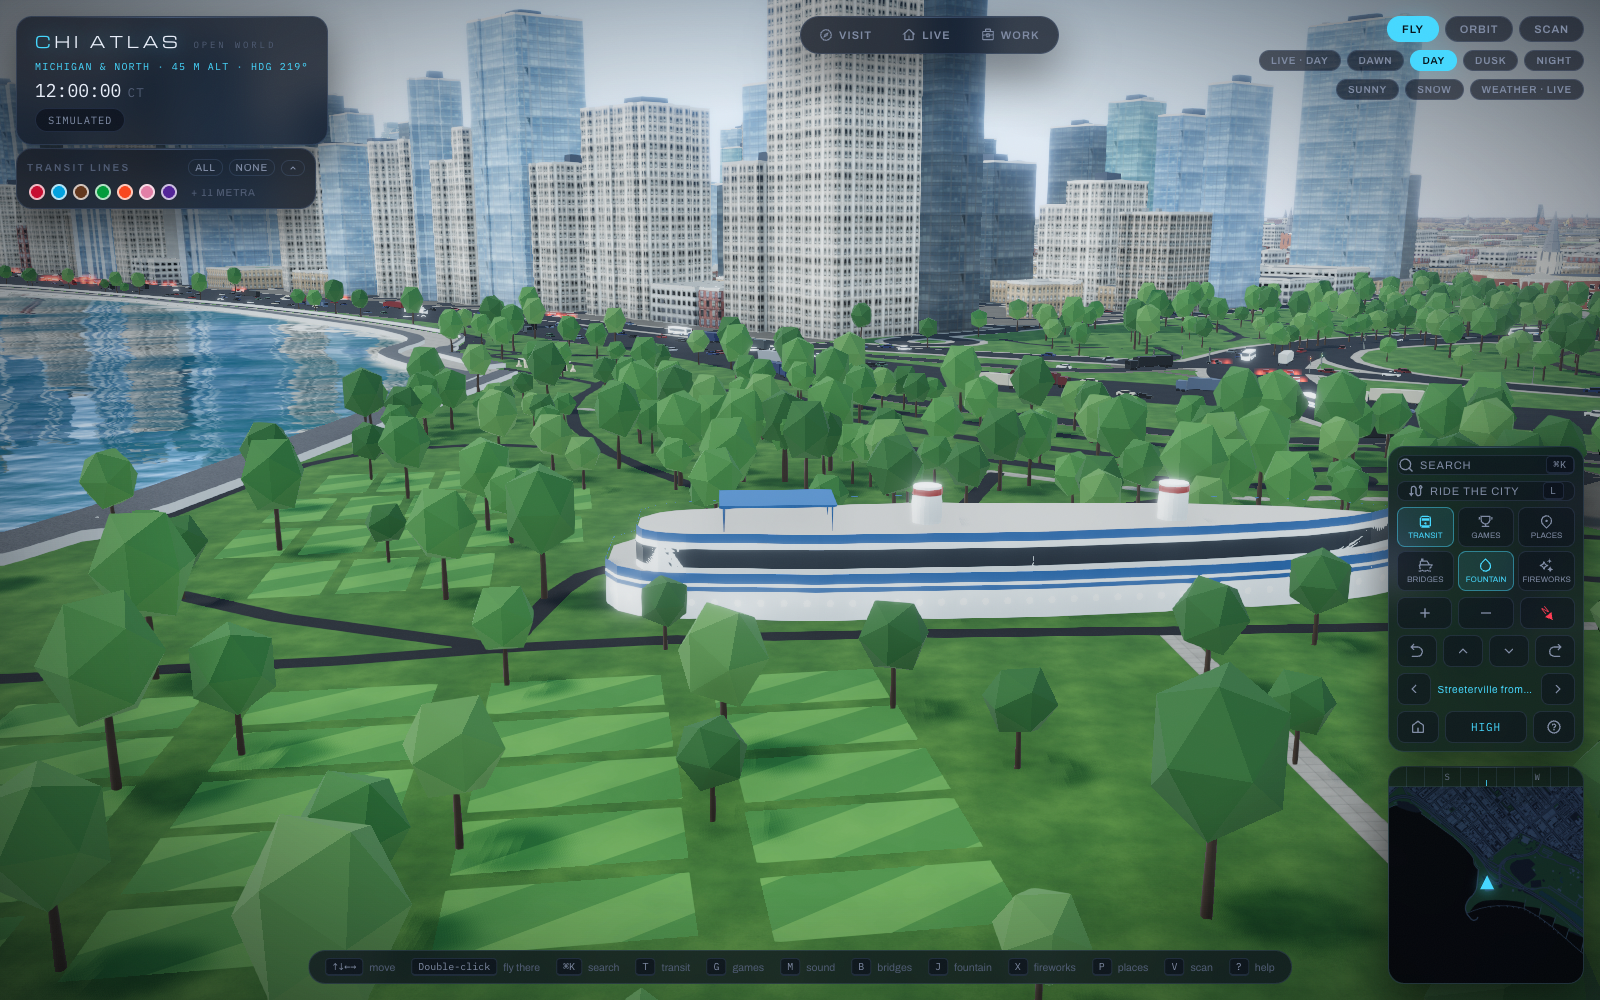
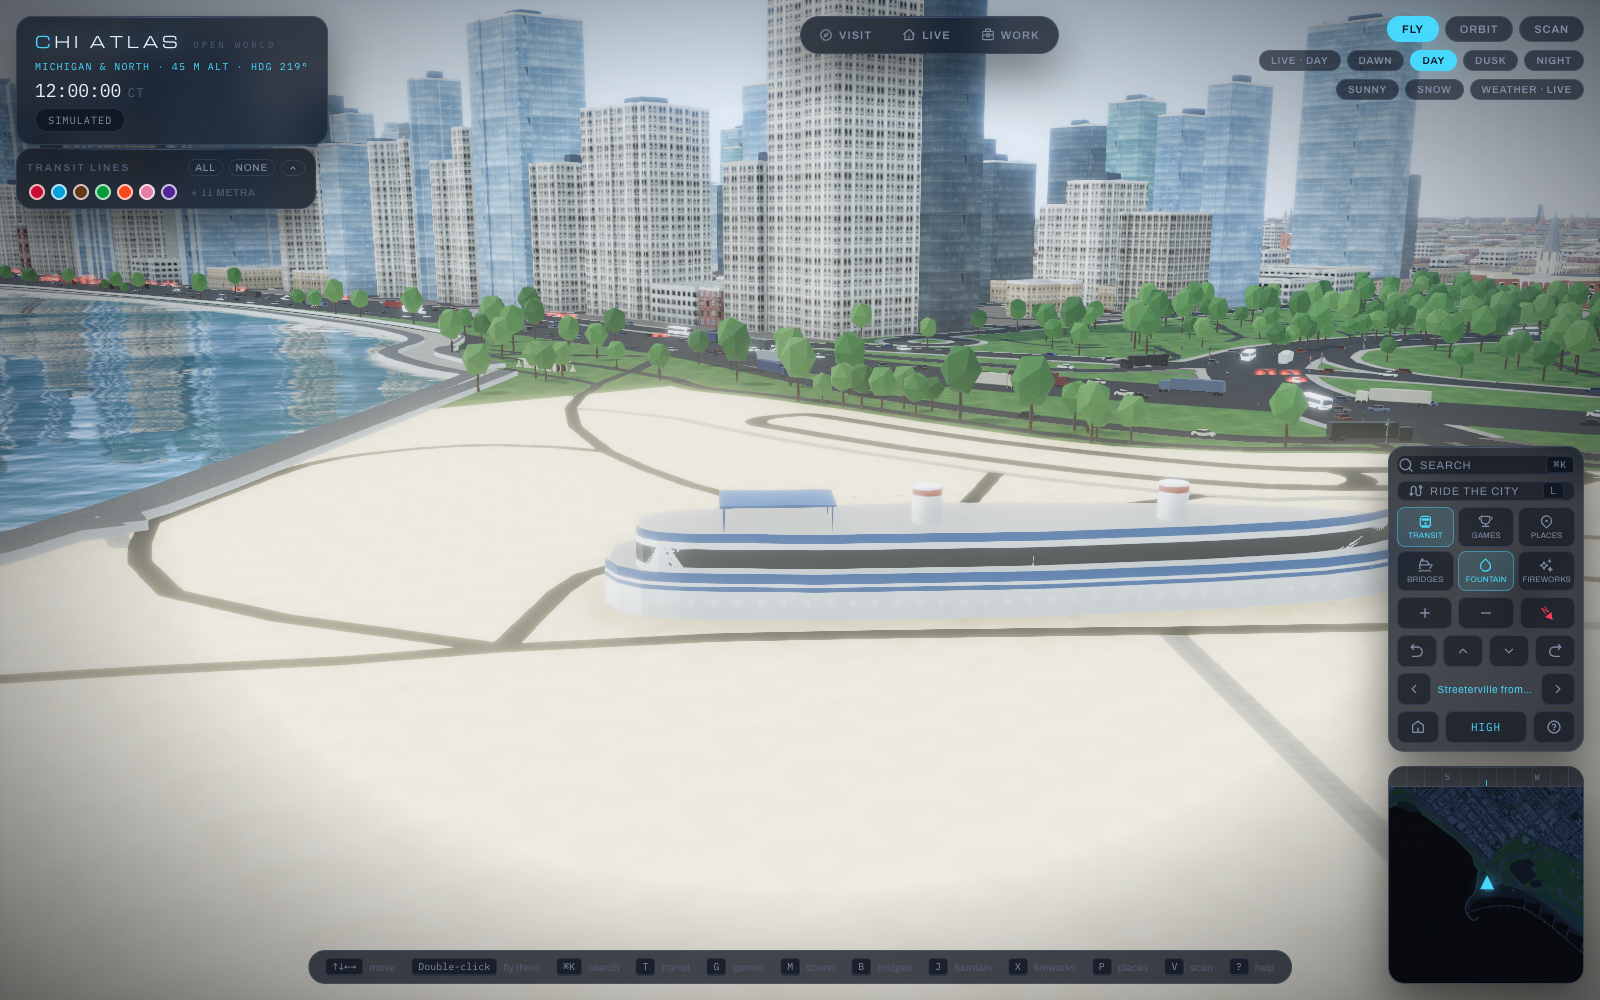
fix(lincoln park): North Avenue Beach is sand — the beach house no longer stands on lawn among trees
OSM leaves North Avenue Beach and the sand north of it unmapped, and its 108
beach-volleyball courts drew as striped turf. Now:
- data/beaches.json + lib/beaches.js: each Lincoln Park beach is sand from the
  Lakefront Trail (the cycleway, where the grass and trees begin) to the shore
  between two latitudes — North Avenue Beach from North Ave to Fullerton,
  Fullerton Beach north of Theater on the Lake (Park District sources, extents
  approximate); clipped to the lake side of the shore
- volleyball courts on sand join the beach layer instead of the turf pitches
- the park grass is cut around the sand and no tree stands on it (444 more
  removed); Oak Street Beach (OSM-mapped) checked the same way
The B-0 North Avenue Beach frames re-taken (day and night). World 176.58 →
176.56 MB (−0.01). Pipeline 734/734, app 852/852; e2e 45/46 with the Riverwalk
walk fps flake (53.8, 55.5 on rerun, downtown, untouched).

diff --git a/pipeline/build/build-world.js b/pipeline/build/build-world.js
@@ -40,6 +40,7 @@ import { createStyleRegistry, assignHeroStyles, meshStyle, writeStylePalettePng,
 import { applyOsmLooks, applyTagOverrides } from '../lib/osmLook.js'
 import { applyRooftops, rooftopLots } from '../lib/rooftops.js'
 import { lakePolygons, landMinusWater, joinLines, lakeSide } from '../lib/lake.js'
+import { lakefrontBeaches, isSandPitch } from '../lib/beaches.js'
 import { bakeShore, SHORE } from '../lib/shore.js'
 import { bakeHeightfield, meshPoints, boundsUnion, HEIGHTFIELD } from '../lib/heightfield.js'
 import { encodeHeights } from '../lib/raster.js'
@@ -227,8 +228,19 @@ async function main() {
   assertSkyline(sky)
 
   // ── Ground sources ─────────────────────────────────────────────────────────
-  const parks = greens.filter((p) => p.tags.natural !== 'beach' && p.tags.leisure !== 'pitch'), beaches = greens.filter((p) => p.tags.natural === 'beach')
-  const pitches = greens.filter((p) => p.tags.leisure === 'pitch')
+  const parks = greens.filter((p) => p.tags.natural !== 'beach' && p.tags.leisure !== 'pitch'), beaches = greens.filter((p) => p.tags.natural === 'beach' || (p.tags.leisure === 'pitch' && isSandPitch(p.tags)))
+  const pitches = greens.filter((p) => p.tags.leisure === 'pitch' && !isSandPitch(p.tags))
+  // the lake side of the shore (also cuts the land below), and Lincoln Park's unmapped beaches: sand from the
+  // Lakefront Trail to the water (data/beaches.json)
+  const coastEls = uniq(chunks('coast'))
+  const lakeRel = coastEls.find((e) => e.type === 'relation')
+  const outerIds = new Set((lakeRel?.members || []).filter((m) => m.role === 'outer').map((m) => m.ref))
+  const shoreLines = coastEls.filter((e) => e.type === 'way' && e.geometry && (!lakeRel || outerIds.has(e.id))).map((e) => e.geometry.map((p) => project(p.lon, p.lat)))
+  const lakeSideP = lakeSide(joinLines(shoreLines, 5), 60000)
+  const trailLines = uniq(chunks('trails')).filter((e) => e.geometry && e.tags?.name === 'Lakefront Trail').map((e) => e.geometry.map((p) => project(p.lon, p.lat)))
+  const sand = lakefrontBeaches(loadJson(join(ROOT, 'data', 'beaches.json')).beaches, { trail: trailLines, lake: lakeSideP })
+  for (const b of sand) beaches.push(b)
+  log(`beaches: ${beaches.length} (${sand.length} lakefront bands from data/beaches.json, ${beaches.filter((b) => b.tags.leisure === 'pitch').length} volleyball courts as sand)`)
   const water = osmPolys(uniq(chunks('water'))).filter((p) => keepWater(p.tags))
   const roads = uniq(chunks('roads')).filter((e) => e.geometry && roadHalfWidth(e.tags || {}))
   const rail = uniq(chunks('rail')).filter((e) => e.geometry)
@@ -587,11 +599,6 @@ async function main() {
   // Land is solid: enclave holes in the city boundary (other municipalities) are still land, never lake.
   const landLimits = [...landPolys, ...region].map((p) => ({ outer: p.outer, holes: [] }))
   // The city limits run out into the lake; the real shore is Lake Michigan's own outline (its outer member ways).
-  const coastEls = uniq(chunks('coast'))
-  const lakeRel = coastEls.find((e) => e.type === 'relation')
-  const outerIds = new Set((lakeRel?.members || []).filter((m) => m.role === 'outer').map((m) => m.ref))
-  const shoreLines = coastEls.filter((e) => e.type === 'way' && e.geometry && (!lakeRel || outerIds.has(e.id))).map((e) => e.geometry.map((p) => project(p.lon, p.lat)))
-  const lakeSideP = lakeSide(joinLines(shoreLines, 5), 60000)
   const landSolid = lakeSideP.length ? landMinusWater({ land: landLimits, water: lakeSideP }) : landLimits
   log(`shoreline: ${shoreLines.length} ways, lake side ${lakeSideP.length ? 'cut' : 'MISSING — using city limits'}`)
   rmSync(join(OUT, 'ground'), { recursive: true, force: true }) // X-0b: drops the unused Phase-2 ground layers (roads, parks, …: 8 MB nothing loads)

diff --git a/pipeline/lib/beaches.js b/pipeline/lib/beaches.js
@@ -1,0 +1,36 @@
+// pipeline/lib/beaches.js — Lincoln Park's lakefront beaches (B, coordinator fix 2026-10-01). OSM maps Oak Street and
+// the South Side beaches as natural=beach but not North Avenue Beach or the sand north of it, so the beach house stood on
+// lawn among trees. Each beach in data/beaches.json is a north–south band of the lakefront: everything between the
+// Lakefront Trail (the landward edge, where the grass and trees begin) and the shore is sand. Beach-volleyball courts
+// (OSM pitches on sand) are sand too, never turf.
+import polygonClipping from 'polygon-clipping'
+import { project } from '../../shared/project.js'
+import { openRing, ringBBox, signedArea } from './geom.js'
+
+const close = (r) => [...r, r[0]]
+export const isSandPitch = (t = {}) => /beach_?volleyball/.test(t.sport ?? '') || t.surface === 'sand'
+
+// trail: polylines (local metres) of the Lakefront Trail; lake: polygons of the lake side of the shore (lakeSide()).
+export function lakefrontBeaches(bands, { trail, lake }) {
+  const out = []
+  for (const b of bands) {
+    const zS = project(0, b.south)[1], zN = project(0, b.north)[1]
+    const pts = trail.flat().filter(([, z]) => z <= zS + 60 && z >= zN - 60).sort((p, q) => p[1] - q[1])
+    if (pts.length < 2) continue
+    // the landward edge: for each 10 m of latitude, the trail's westernmost point there (the cycleway, not the beach walks)
+    const rows = new Map()
+    for (const [x, z] of pts) { const k = Math.round(z / 10); if (!rows.has(k) || x < rows.get(k)[0]) rows.set(k, [x + (b.setbackM ?? 6), z]) }
+    const edge = [...rows.values()].sort((p, q) => p[1] - q[1])
+    const east = Math.max(...edge.map((p) => p[0])) + 1500
+    const band = [...edge, [east, edge.at(-1)[1]], [east, edge[0][1]]]
+    const box = [[-1e6, zN], [1e6, zN], [1e6, zS], [-1e6, zS]]
+    const clipped = polygonClipping.intersection([close(band)], [close(box)])
+    const dry = lake.length ? polygonClipping.difference(clipped, ...lake.map((p) => [close(p.outer), ...(p.holes ?? []).map(close)])) : clipped
+    for (const [outer, ...holes] of dry) {
+      const o = openRing(outer)
+      if (o.length < 3 || Math.abs(signedArea(o)) < 200) continue
+      out.push({ id: `beach-${b.key}`, outer: o, holes: holes.map(openRing), tags: { natural: 'beach', name: b.name, surface: 'sand', source: b.source }, bbox: ringBBox(o) })
+    }
+  }
+  return out
+}

diff --git a/pipeline/tests/beaches.test.js b/pipeline/tests/beaches.test.js
@@ -1,0 +1,33 @@
+// pipeline/tests/beaches.test.js — Lincoln Park's beaches are sand from the Lakefront Trail to the water (coordinator fix:
+// the North Avenue Beach House stood on lawn among trees), and beach-volleyball courts are sand, not turf.
+import { describe, it, expect } from 'vitest'
+import { readFileSync } from 'node:fs'
+import { lakefrontBeaches, isSandPitch } from '../lib/beaches.js'
+import { pointInRing } from '../lib/geom.js'
+import { project } from '../../shared/project.js'
+
+describe('lakefront beaches', () => {
+  // a straight trail at x = 0 and the lake east of x = 100, from z = −4000 to −3000
+  const zS = project(0, 41.9118)[1], zN = project(0, 41.9252)[1]
+  const trail = [Array.from({ length: 200 }, (_, i) => [0, zS + 200 - ((zS - zN + 400) * i) / 199])]
+  const lake = [{ outer: [[100, zS + 500], [5000, zS + 500], [5000, zN - 500], [100, zN - 500]], holes: [] }]
+  const b = lakefrontBeaches([{ key: 'n', name: 'North Avenue Beach', south: 41.9118, north: 41.9252, setbackM: 6, source: 'x' }], { trail, lake })
+  it('is sand between the trail (plus its setback) and the shore, within its latitudes', () => {
+    expect(b).toHaveLength(1)
+    const r = b[0].outer, xs = r.map((p) => p[0]), zs = r.map((p) => p[1])
+    expect(Math.min(...xs)).toBeCloseTo(6, 0); expect(Math.max(...xs)).toBeCloseTo(100, 0)
+    expect(Math.max(...zs)).toBeCloseTo(zS, 0); expect(Math.min(...zs)).toBeCloseTo(zN, 0)
+    expect(pointInRing([50, (zS + zN) / 2], r)).toBe(true); expect(pointInRing([-20, (zS + zN) / 2], r)).toBe(false)
+    expect(b[0].tags.natural).toBe('beach')
+  })
+  it('volleyball courts on sand are sand; other pitches stay turf', () => {
+    expect(isSandPitch({ leisure: 'pitch', sport: 'beachvolleyball', surface: 'sand' })).toBe(true)
+    expect(isSandPitch({ leisure: 'pitch', sport: 'tennis' })).toBe(false)
+  })
+  it('data/beaches.json: North Avenue Beach from North Ave to Fullerton, sourced', () => {
+    const d = JSON.parse(readFileSync(new URL('../data/beaches.json', import.meta.url), 'utf8')).beaches
+    const n = d.find((x) => x.key === 'northavenue')
+    expect(n.south).toBeLessThan(41.912); expect(n.north).toBeGreaterThan(41.925)
+    for (const x of d) expect(x.source).toMatch(/^https:\/\//)
+  })
+})

diff --git a/README.md b/README.md
@@ -563,7 +563,7 @@ Every building, monument and landmark in Lincoln Park from North Avenue to Irvin
 <td width="50%"><img src="docs/screenshots/v10-lp-north-avenue-beach-night.png" alt="North Avenue Beach at night" width="100%"/></td>
 </tr>
 <tr>
-<td><em>The North Avenue Beach House as the ocean liner it was built to be: portholes, the blue-railed decks, the Castaways canopy and two red-banded funnels; the Chess Pavilion beyond.</em></td>
+<td><em>The North Avenue Beach House as the ocean liner it was built to be, aground on the sand: portholes, the blue-railed decks, the Castaways canopy and two red-banded funnels. The beach runs from North Avenue to Fullerton between the lake and the Lakefront Trail.</em></td>
 <td><em>At night the portholes glow along the hull.</em></td>
 </tr>
 <tr>
